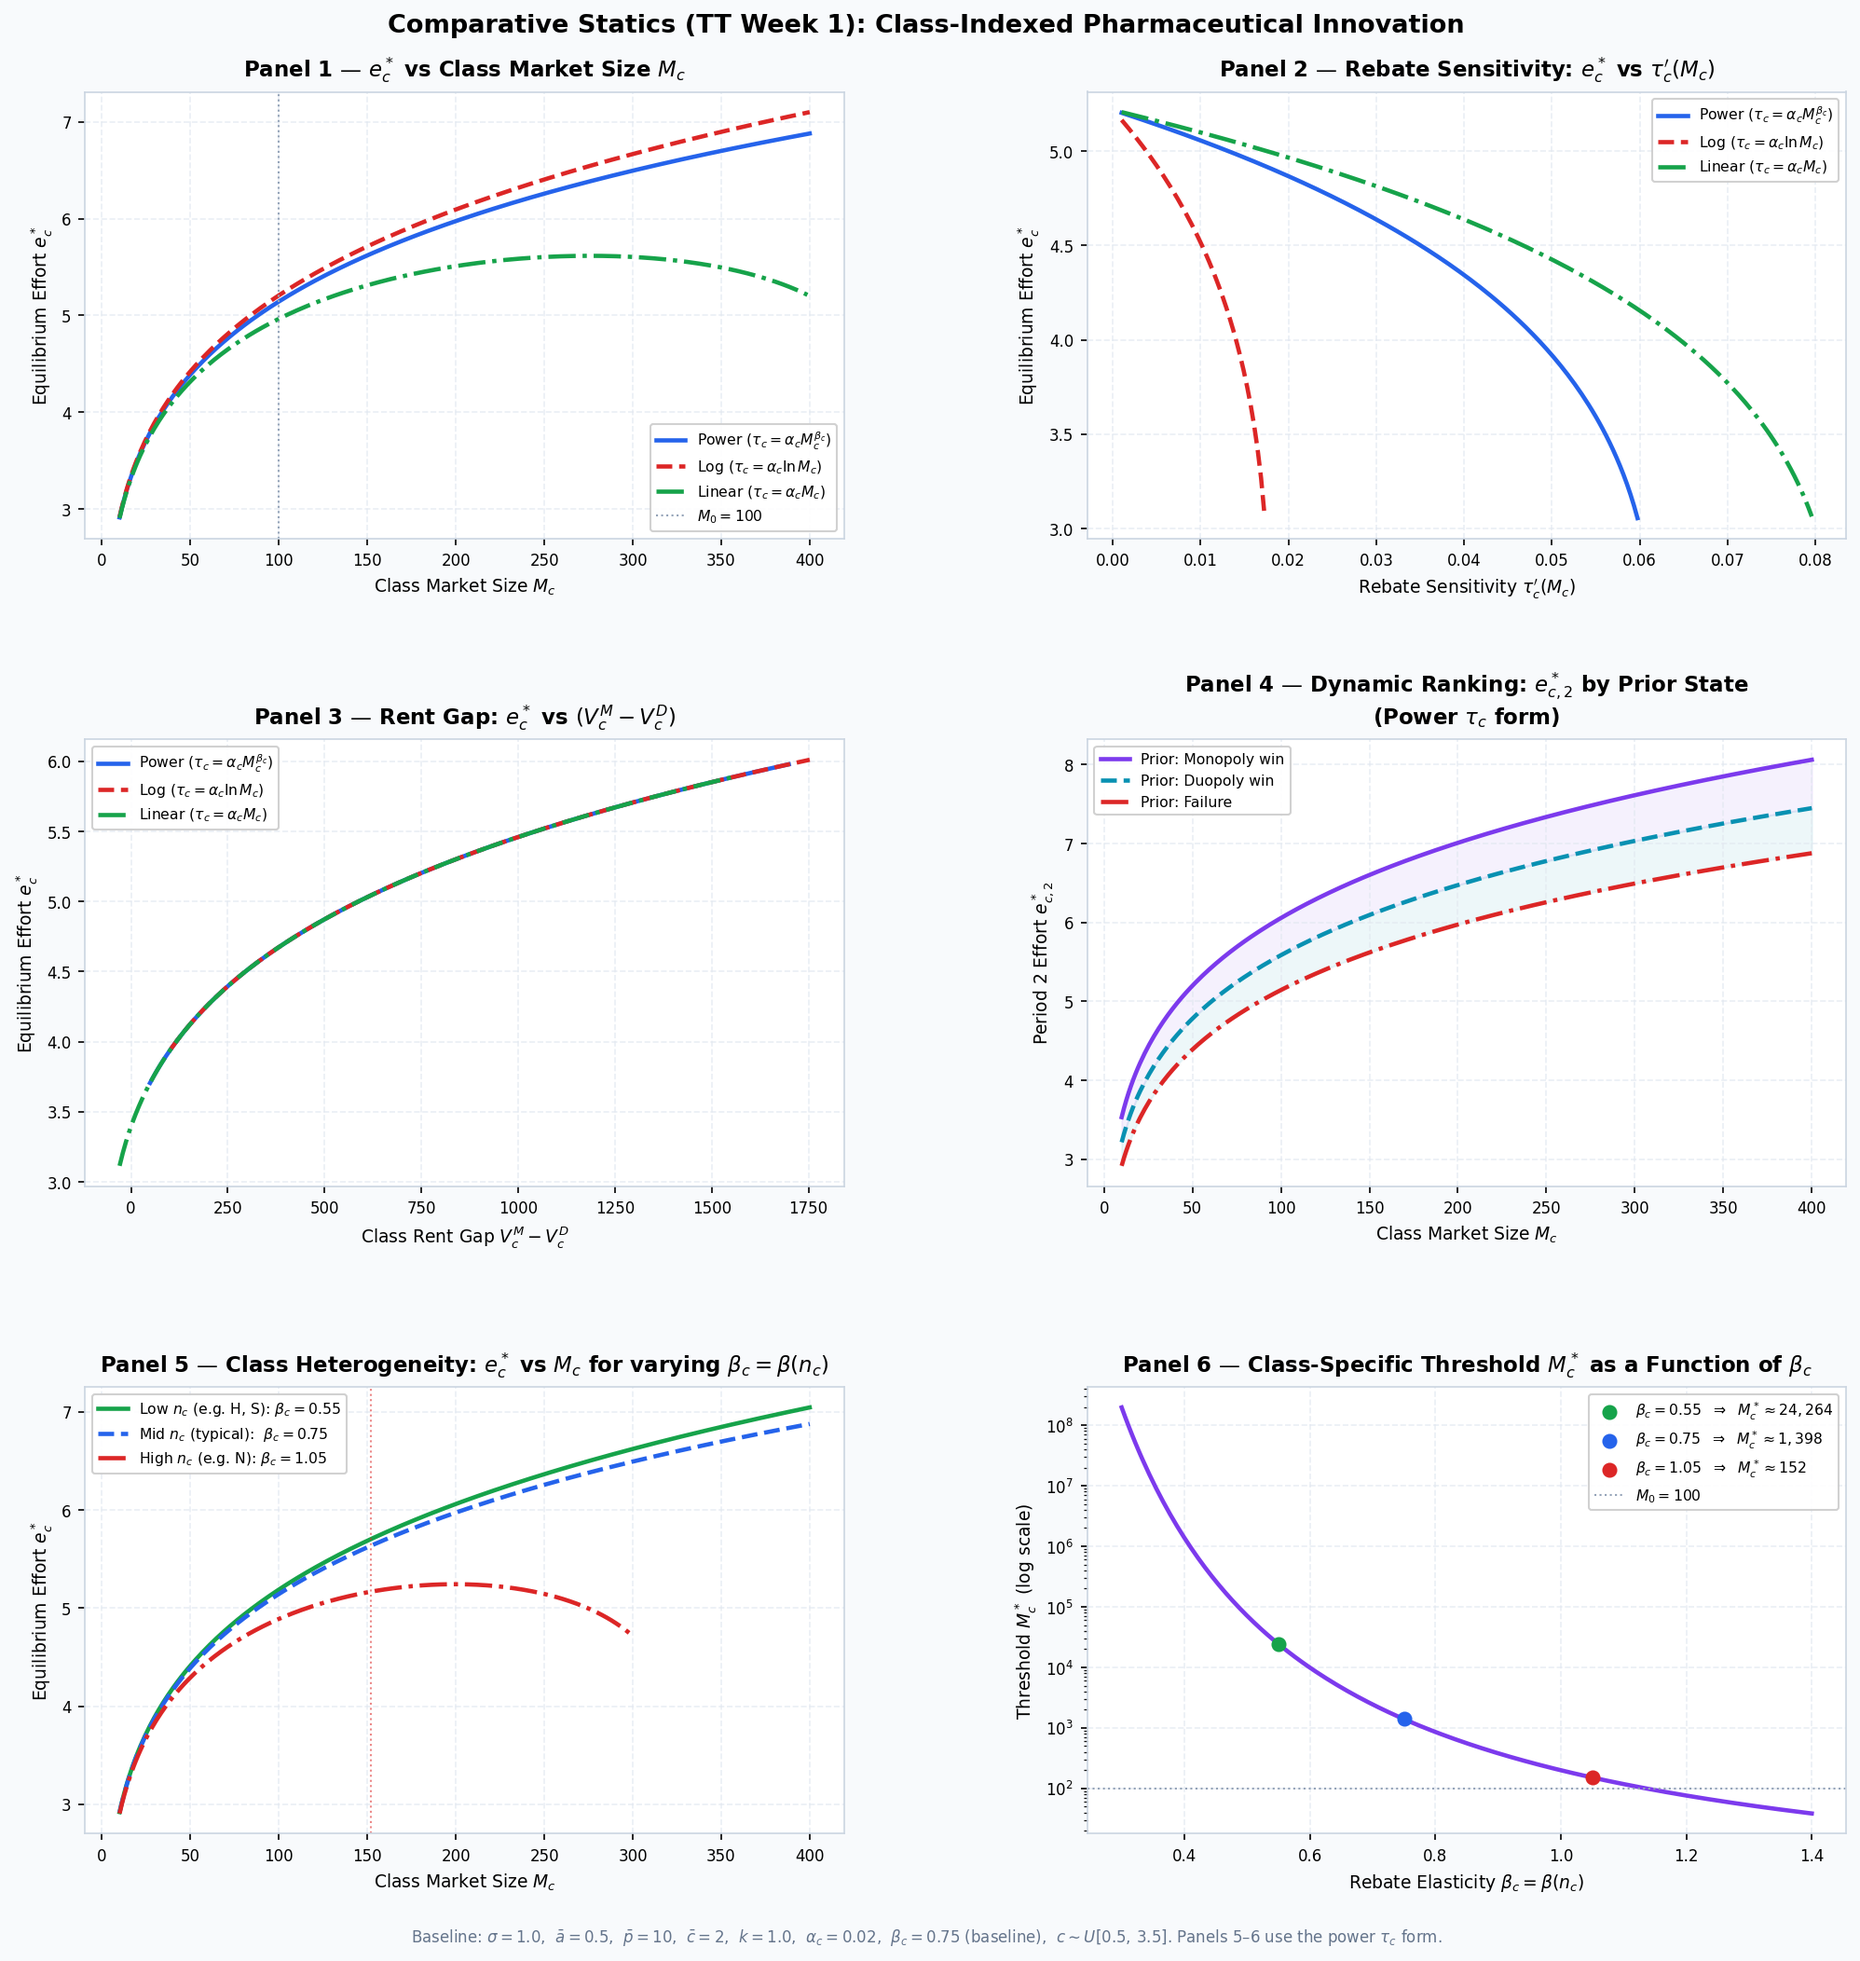
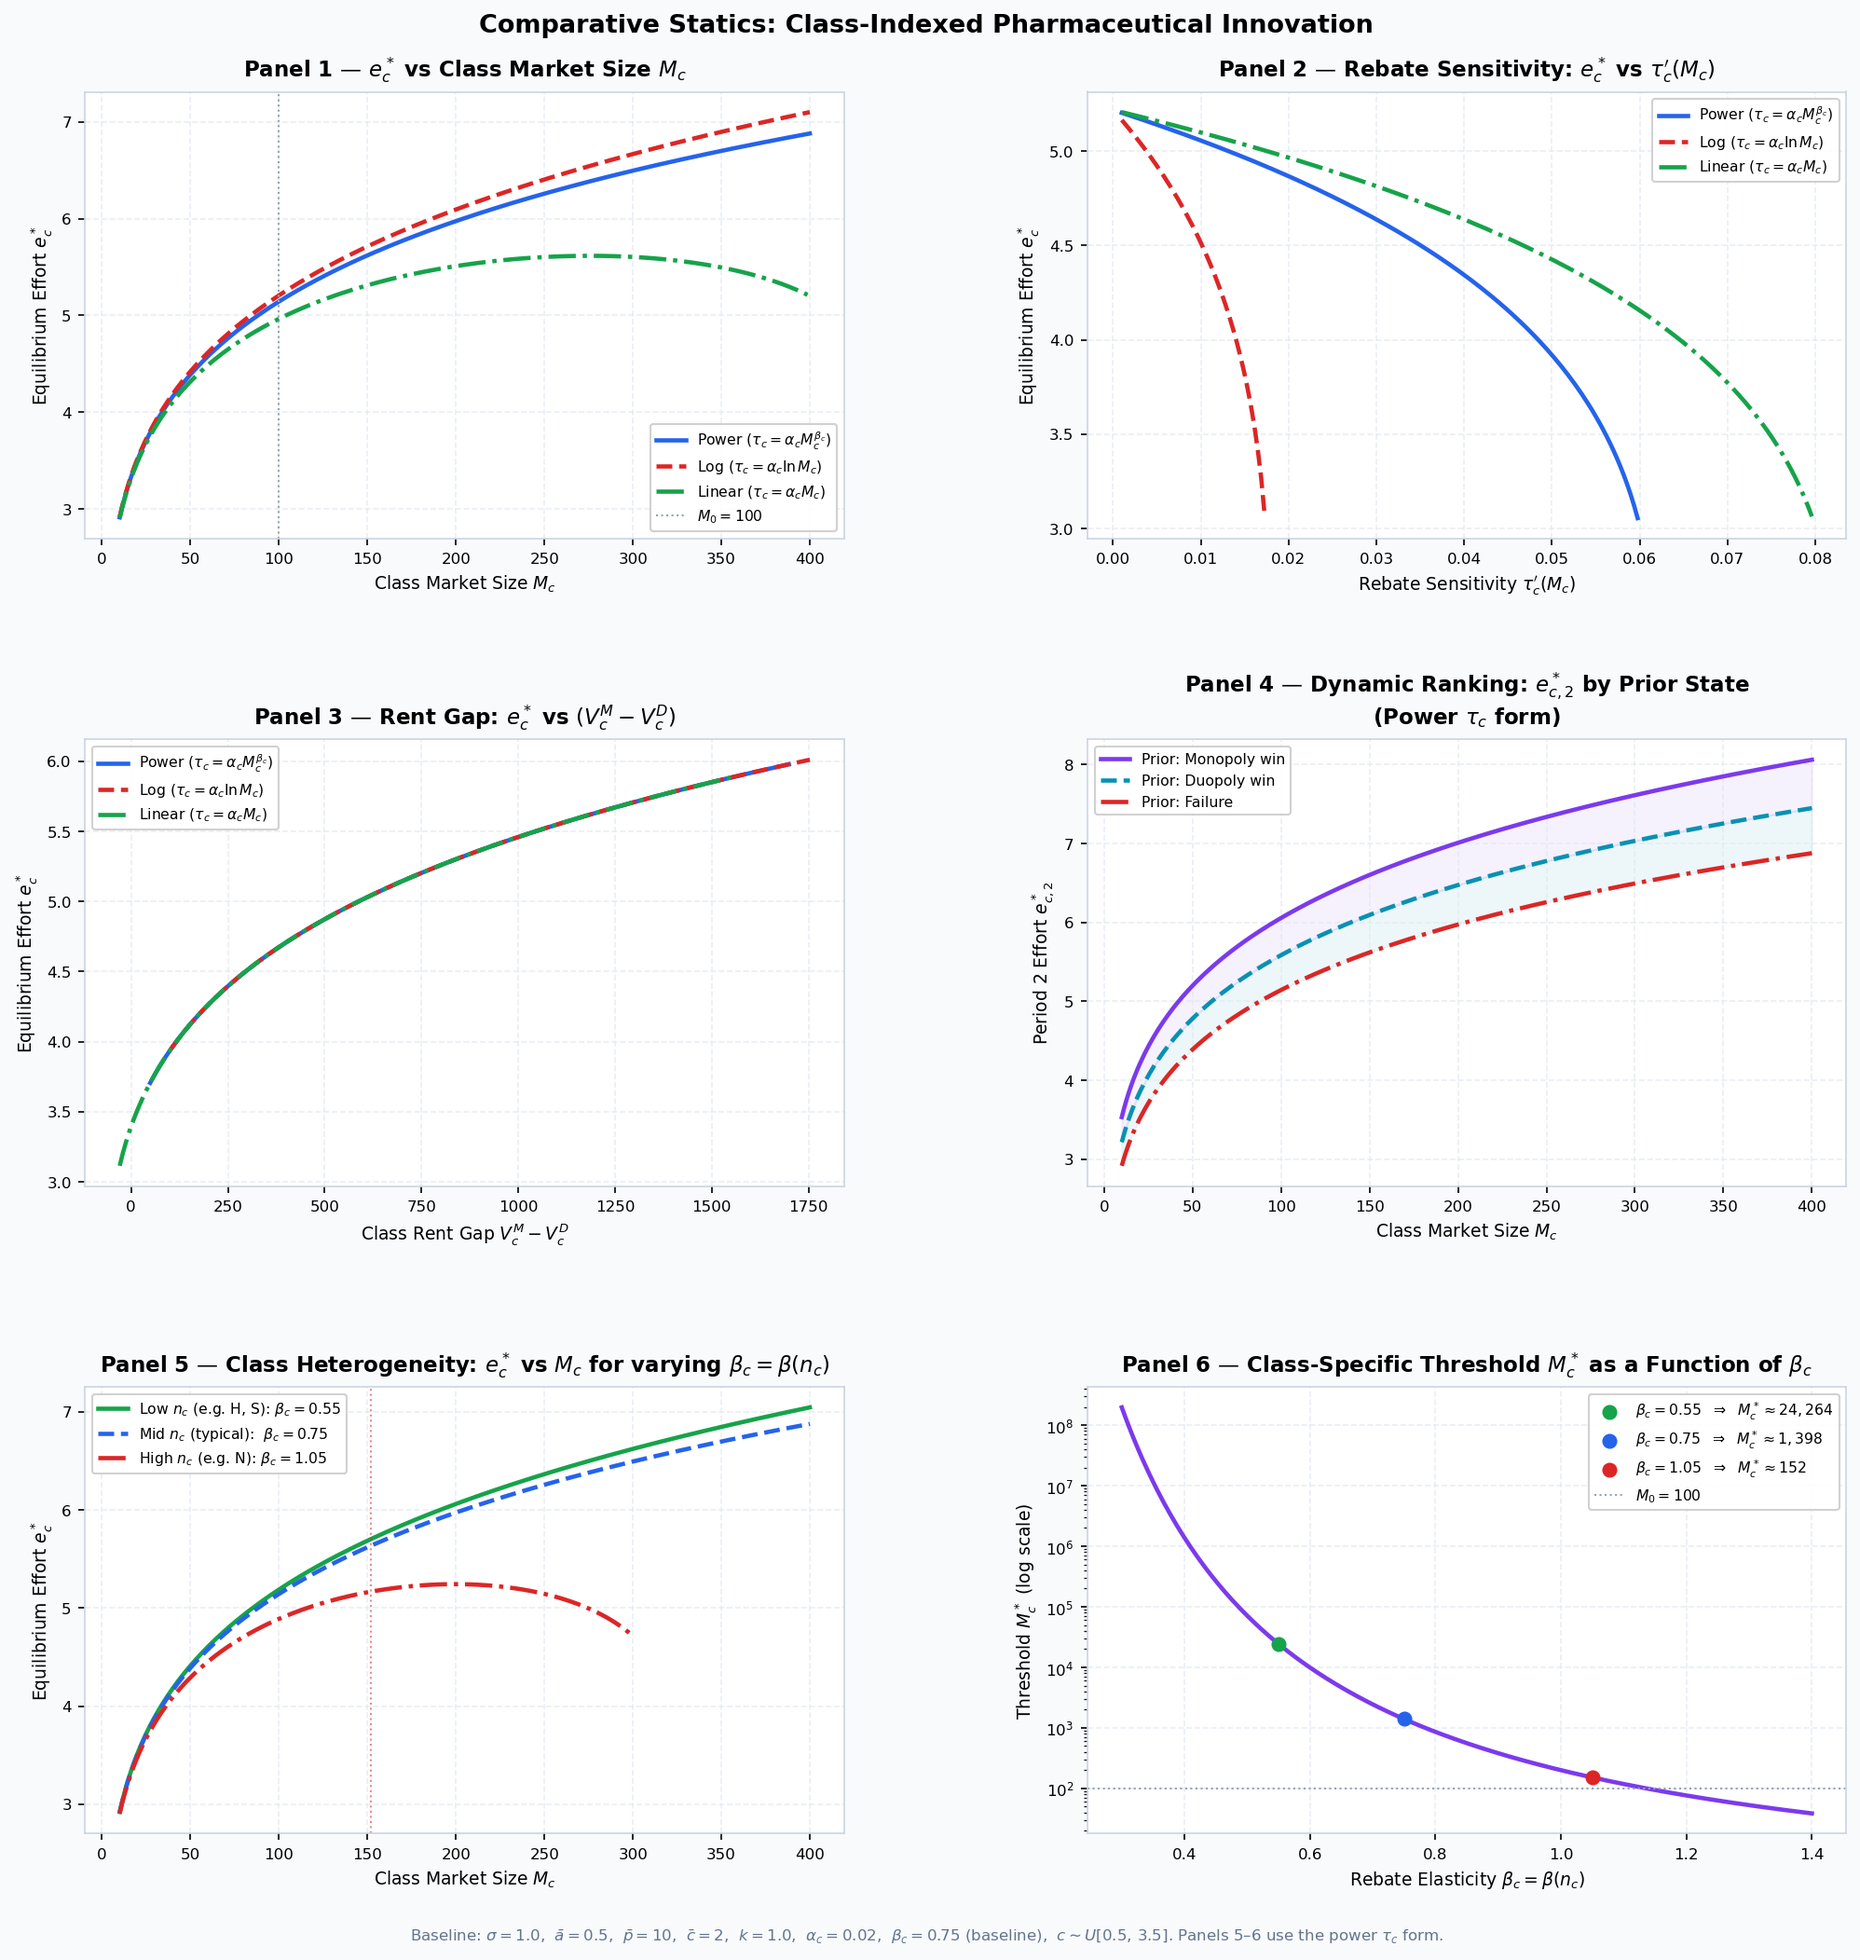
TT week 1 model comparative statics title fix

diff --git a/theoretical_model/TT_week1_model.py b/theoretical_model/TT_week1_model.py
@@ -203,7 +203,7 @@ M_star_grid = np.array([M_star(P["alpha"], b) for b in beta_grid])
 # ─────────────────────────────────────────────
 fig = plt.figure(figsize=(14, 14), facecolor=STYLE["fig_bg"])
 fig.suptitle(
-    "Comparative Statics (TT Week 1): Class-Indexed Pharmaceutical Innovation",
+    "Comparative Statics: Class-Indexed Pharmaceutical Innovation",
     fontsize=13, fontweight="bold", y=0.99
 )
 
